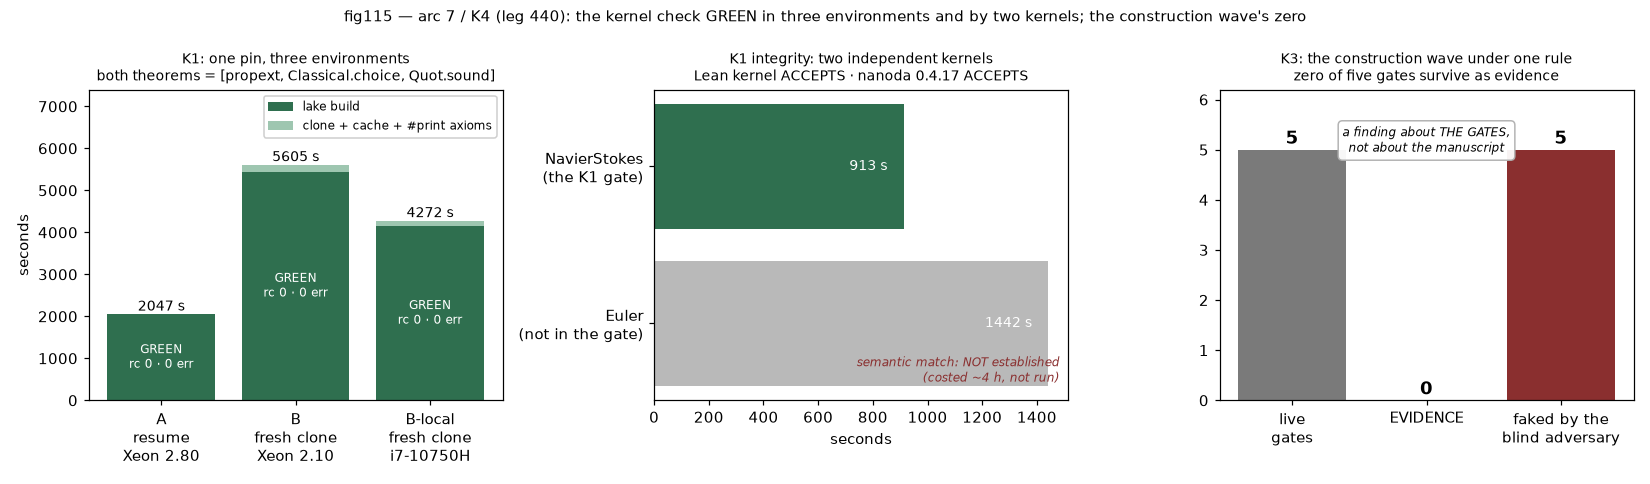
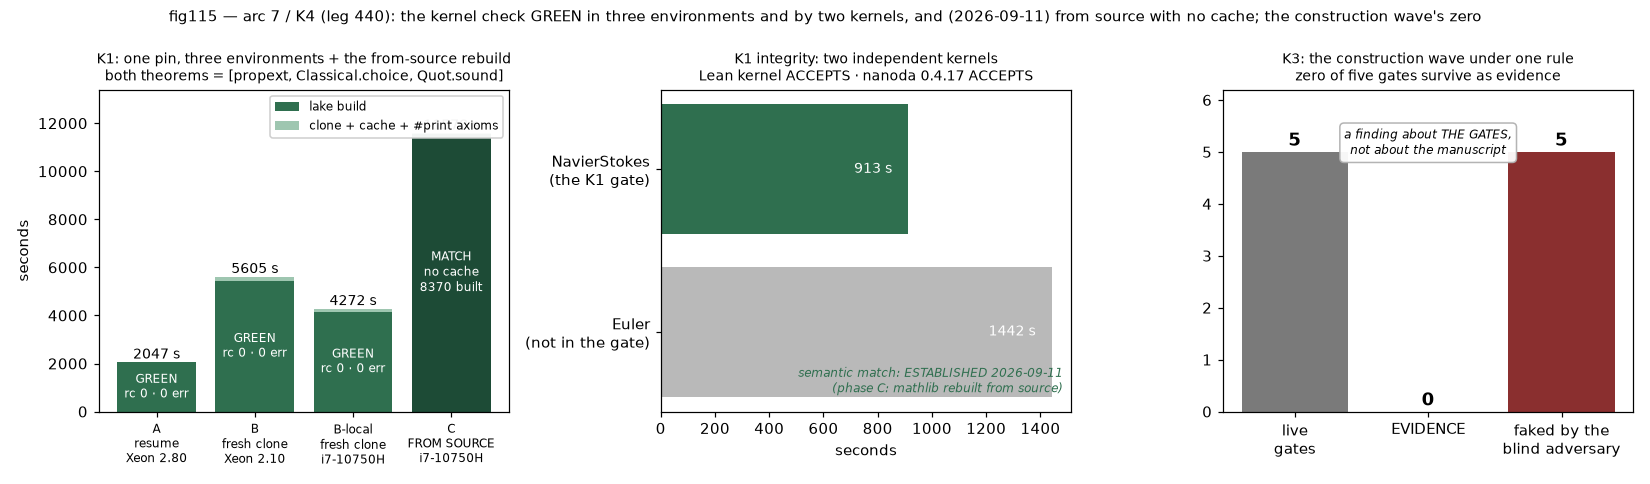
DOCS: remove the four places still saying the from-source rebuild had not been run
The phase C merge (b68480a) updated six documents and missed four reader-facing
statements, two of which contradicted the new text on the same page:

1. TECHNICAL_CONFIRMATION.md §7 listed the SAME limit twice, ESTABLISHED above
   and "OPEN, costed, not run" below. The old row is struck, wording kept visible.
2. INDEX.md's arc-7 row said "no longer rests on the published olean cache" and
   "SEMANTIC MATCH open (costed ~4 h, not run)" in one cell. Now CLOSED.
3. fig115 -- the published PNG -- was captioned "semantic match: NOT established
   (costed ~4 h, not run)" in red. A figure is quotable away from the page that
   corrects it, and this one had already been merged to main saying the opposite
   of §3b. Caption fixed, phase C drawn as a fourth bar, PNG redrawn.
4. BLOG_CONFIRMATION.md and CONFIRMATION_FOR_OUTSIDERS.md were not touched by the
   merge at all and still told the reader the recompile was costed and not run.
   The outsiders' note moves the library question into "what WAS verified" and
   replaces it in the negative list with the honest one: the Lean compiler was
   installed, not built, and that is where the chain of trust now ends.

Also: README's two arc-7 banners now carry the rebuild; confirmation_evidence.py
gains a phase C section (§4b, 14 checks) so the rebuild's numbers are re-derived
from the banked artefacts like every other number, and drift in them fails the
gate -- the caption was missed precisely because no test asserted it.
[…]

diff --git a/writeup/7_confirmation/confirmation_evidence.py b/writeup/7_confirmation/confirmation_evidence.py
@@ -32,6 +32,7 @@ print("== 1. K1: the same pin in all three environments")
 A = J(D / "k1" / "phaseA" / "phaseA.json")
 B = J(D / "k1" / "phaseB" / "phaseB.json")
 L = J(D / "k1" / "phaseB_local" / "phaseB.json")
+C = J(D / "k1" / "phaseC" / "phaseC.json")   # 2026-09-11: the from-source rebuild
 for nm, a in [("A", A), ("B", B), ("B-local", L)]:
     check(a["tree_head"] == PIN and a["mathlib_rev"] == MATHLIB and a["comparator_rev"] == COMPARATOR
           and a["toolchain"] == "leanprover/lean4:v4.34.0-rc2" and a["olean_count_project"] == 2486,
@@ -79,6 +80,28 @@ check("does not establish" in I["provenance"].get("what_this_does_not_establish"
       "were in fact produced by compiling" in I["provenance"]["what_this_does_not_establish"],
       "provenance carries its own negative clause")
 check("were in fact produced by compiling" in T, "the note quotes the provenance limit verbatim")
+
+print("== 4b. K1 phase C (2026-09-11): mathlib rebuilt FROM SOURCE, cache never invoked")
+check(C["tree_head"] == PIN and C["mathlib_rev"] == MATHLIB and C["comparator_rev"] == COMPARATOR
+      and C["olean_count_project"] == 2486, "phase C: same pin, same mathlib, same comparator, 2486 oleans")
+check(C["mathlib_built_lines"] == 8370 and C["mathlib_replayed_lines"] == 0,
+      "the prereg void check: 8370 `Built Mathlib.` lines, 0 replayed -- no cache was used",
+      f'{C["mathlib_built_lines"]} built / {C["mathlib_replayed_lines"]} replayed')
+check("NEVER RUN" in C["cache_get_rc"] and "0 occurrences" in C["cache_get_rc"],
+      "`lake exe cache get` never invoked; `cache` absent from the build log")
+rC = C["result"]
+check(C["build_rc"] == 0 and C["build_error_lines"] == 0 and rC["navier_stokes_breakdown_R3"] == STD3
+      and rC["navier_stokes_breakdown_periodic"] == STD3 and rC["sorryAx_reachable"] == "NO"
+      and C["reading"].startswith("MATCH"),
+      "phase C: rc 0, 0 errors, the standard three, sorryAx NO, reading MATCH")
+check("sorryAx" not in C["axioms_verbatim"], "phase C: sorryAx absent from the verbatim axioms log")
+check("0883b714" in C["comparison_with_phaseB"]["axioms_identical"],
+      "axioms byte-identical across all three runs, by md5 -- not by eye")
+check(C["total_s"] == 11578 and C["build_s"] == 11571, "phase C total 11578 s (build 11571)", str(C["total_s"]))
+check(round(C["total_s"] / L["total_s"], 2) == 2.71, "the cost of dropping the cache: 2.71x phase B",
+      f'{C["total_s"]}/{L["total_s"]} = {C["total_s"]/L["total_s"]:.2f}')
+for tok in ["8370", "11578", "2.71", "28.5 GB", "was never invoked, not once"]:
+    check(tok in T, f"the note quotes {tok!r} for phase C")
 
 print("== 5. K2: the five blind workers, and the label that moved")
 K2 = D / "k2" / "r2"
@@ -130,26 +153,29 @@ check("priority dispute" in T and "takes no position" in T, "the no-priority sen
 
 print("== 9. fig115, drawn from the banked artefacts alone")
 fig, ax = plt.subplots(1, 3, figsize=(15, 4.4))
-names = ["A\nresume\nXeon 2.80", "B\nfresh clone\nXeon 2.10", "B-local\nfresh clone\ni7-10750H"]
-build = [A["build_s"], B["build_s"], L["build_s"]]
-other = [0, B["total_s"] - B["build_s"], L["total_s"] - L["build_s"]]
-ax[0].bar(names, build, color="#2f6f4f", label="lake build")
+names = ["A\nresume\nXeon 2.80", "B\nfresh clone\nXeon 2.10", "B-local\nfresh clone\ni7-10750H",
+         "C\nFROM SOURCE\ni7-10750H"]
+build = [A["build_s"], B["build_s"], L["build_s"], C["build_s"]]
+other = [0, B["total_s"] - B["build_s"], L["total_s"] - L["build_s"], C["total_s"] - C["build_s"]]
+tags = ["GREEN\nrc 0 · 0 err", "GREEN\nrc 0 · 0 err", "GREEN\nrc 0 · 0 err", "MATCH\nno cache\n8370 built"]
+ax[0].bar(names, build, color=["#2f6f4f", "#2f6f4f", "#2f6f4f", "#1d4b36"], label="lake build")
 ax[0].bar(names, other, bottom=build, color="#9ec6b0", label="clone + cache + #print axioms")
 for i, (b, o) in enumerate(zip(build, other)):
-    ax[0].text(i, b + o + 90, f"{b+o} s", ha="center", fontsize=9)
-    ax[0].text(i, b / 2, "GREEN\nrc 0 · 0 err", ha="center", va="center", fontsize=8, color="white")
-ax[0].set_ylabel("seconds"); ax[0].set_ylim(0, 7400)
+    ax[0].text(i, b + o + 160, f"{b+o} s", ha="center", fontsize=9)
+    ax[0].text(i, b / 2, tags[i], ha="center", va="center", fontsize=8, color="white")
+ax[0].set_ylabel("seconds"); ax[0].set_ylim(0, 13400)
+ax[0].tick_params(axis="x", labelsize=8)   # four bars now: the labels crowd at the default size
 # legend upper-LEFT would sit on top of phase B's total label; the tall bar is centre-left
 ax[0].legend(fontsize=8, loc="upper right", framealpha=0.95)
-ax[0].set_title("K1: one pin, three environments\nboth theorems = [propext, Classical.choice, Quot.sound]", fontsize=9)
+ax[0].set_title("K1: one pin, three environments + the from-source rebuild\nboth theorems = [propext, Classical.choice, Quot.sound]", fontsize=9)
 
 ax[1].barh(["Euler\n(not in the gate)", "NavierStokes\n(the K1 gate)"], [eu["seconds"], ns["seconds"]],
            color=["#b9b9b9", "#2f6f4f"])
 for i, s in enumerate([eu["seconds"], ns["seconds"]]):
     ax[1].text(s - 60, i, f"{s} s", ha="right", va="center", color="white", fontsize=9)
 ax[1].set_xlabel("seconds"); ax[1].set_title("K1 integrity: two independent kernels\nLean kernel ACCEPTS · nanoda 0.4.17 ACCEPTS", fontsize=9)
-ax[1].text(0.98, 0.06, "semantic match: NOT established\n(costed ~4 h, not run)", transform=ax[1].transAxes,
-           ha="right", fontsize=8, style="italic", color="#8a2f2f")
+ax[1].text(0.98, 0.06, "semantic match: ESTABLISHED 2026-09-11\n(phase C: mathlib rebuilt from source)", transform=ax[1].transAxes,
+           ha="right", fontsize=8, style="italic", color="#2f6f4f")
 
 lab = ["live\ngates", "EVIDENCE", "faked by the\nblind adversary"]
 val = [c["live_gates"], c["EVIDENCE"], c["gates_the_blind_adversary_faked"]]
@@ -162,8 +188,8 @@ ax[2].text(0.5, 0.80, "a finding about THE GATES,\nnot about the manuscript", tr
            ha="center", fontsize=8, style="italic",
            bbox=dict(boxstyle="round,pad=0.35", fc="white", ec="#b0b0b0", alpha=0.95))
 
-fig.suptitle("fig115 — arc 7 / K4 (leg 440): the kernel check GREEN in three environments and by two kernels; "
-             "the construction wave's zero", fontsize=10)
+fig.suptitle("fig115 — arc 7 / K4 (leg 440): the kernel check GREEN in three environments and by two kernels, "
+             "and (2026-09-11) from source with no cache; the construction wave's zero", fontsize=10)
 fig.tight_layout(); FIGS.mkdir(exist_ok=True)
 out = FIGS / "fig115_arc7_confirmation.png"
 fig.savefig(out, dpi=110); plt.close(fig)

diff --git a/writeup/CORRECTIONS.md b/writeup/CORRECTIONS.md
@@ -5567,3 +5567,45 @@ semantic-match bullet, new §3b, §6 bullet, §7 table row), `STATE.md` (`K1` an
 `reports/ORCH_STATE.md` (new phase C block; the targeted-check open item closed), `writeup/INDEX.md`
 (arc 7 row), and `experiments/journal/leg_437.md` (new §6, appended beside §4–§5).
 
+
+### §81c — the phase C documentation pass left FOUR stale statements standing, including one inside the published figure. Found on a sweep the day of the merge, 2026-09-11.
+
+§81b recorded what the phase C merge (`b68480a`) edited. It did not edit enough. A sweep of the
+reader-facing surfaces — asked for by the user, *"make sure they don't see redundant chat about having
+not rebuilt from source"* — found four places still telling a visitor the rebuild had not happened, two
+of them **contradicting the new text on the same page**:
+
+1. **`TECHNICAL_CONFIRMATION.md` §7 carried the same limit TWICE, with opposite statuses.** The merge
+   added `| K1 olean semantic match | ESTABLISHED 2026-09-11 |` above the pre-existing
+   `| K1 semantic match | OPEN, costed, not run |` and did not strike the old row. A reader of the
+   verification table saw both. The old row is now struck with its former wording kept visible.
+2. **`INDEX.md`'s arc-7 row said both things in one cell.** The merge prepended *"since 2026-09-11 this
+   no longer rests on the published olean cache"* and left *"SEMANTIC MATCH open (costed ~4 h, not run)"*
+   later in the same sentence. Corrected to `CLOSED 2026-09-11`.
+3. **fig115 — the published figure — was captioned `semantic match: NOT established (costed ~4 h, not
+   run)`, in red.** This is the worst of the four: a figure is quotable on its own, away from the page
+   that corrects it, and this one had been merged to `main` already saying the opposite of §3b. The
+   generator is fixed, the caption now reads ESTABLISHED, phase C is drawn as a fourth bar, and the PNG
+   is redrawn from the banked artefacts.
+4. **`BLOG_CONFIRMATION.md` and `CONFIRMATION_FOR_OUTSIDERS.md` were not touched by the merge at all.**
+   Both still told the reader the recompile was costed and deliberately not run. The blog's
+   three-claims passage now records that the third claim closed. The outsiders' note moved the library
+   question out of *"what was not verified"* and into *"what was actually verified"* as point 4 — and
+   replaced it in the negative list with the claim that is now the honest one: **the Lean compiler
+   itself was installed, not built**, and that is where the chain of trust ends.
+
+**Why it happened.** The merge pass worked from a list of documents to update. Nothing checked the
+documents against each other afterwards, so an added sentence and an unremoved sentence could sit in the
+same table. The figure was missed because its text lives in `confirmation_evidence.py`, not in any `.md`,
+and the evidence script passed — it re-derives numbers from artefacts and never asserted anything about
+that caption. `confirmation_evidence.py` now carries a phase C section (§4b, 10 checks) so the rebuild's
+numbers are re-derived like every other number, and drift in them fails the gate.
+
+**Not edited, deliberately.** `phaseA.json`, `phaseB.json`, `phaseB_local.json` still carry *"that
+mathlib's cached oleans match their sources"* — true of those runs, each a cache replay (§3f: a banked
+datum is never edited, only corrected beside). `rebuild_cost_estimate.md` still carries its ≈4 h estimate,
+its targeted 399-module alternative and its disk blocker; it gains a **note beside it**
+(`phaseB_integrity/NOTE_superseded_by_phaseC.md`) recording that the rebuild ran, that the targeted
+alternative was never needed, and that its own disk figure was low. Arc 6's `6_reproduction/` documents
+still say *"one run, one container, unreplayed"*, which was true when written and which the README
+already marks as superseded by measurement; prior arcs are left standing and unrewritten.

diff --git a/writeup/INDEX.md b/writeup/INDEX.md
@@ -529,5 +529,5 @@ journal; nothing here is a summary written after the fact.*
 
 | Route | Gate / headline | R | D | B/T | E | F | Docs |
 |---|---|---|---|---|---|---|---|
-| Confirmation, §3g CONDUCTOR ×5 (legs 436–440) | **The kernel check is GREEN and `VERIFIED`: on one pin (`8937a8f4`), in THREE environments and by TWO independent kernels (Lean and nanoda 0.4.17), both exported theorems are accepted with `[propext, Classical.choice, Quot.sound]` and `sorryAx` unreachable.** **Since 2026-09-11 this no longer rests on the published olean cache: a FOURTH run (`K1` phase C) rebuilt mathlib from source with `lake exe cache get` never invoked — 8370 `Built Mathlib.`, 0 `Replayed` — and returned the same axioms byte for byte.** It confirms the Lean project proves what its own statements say — and those statements are Fefferman (C)/(D), **strictly weaker than Theorem 1.1**. Olean INTEGRITY established, PROVENANCE to labelling only, SEMANTIC MATCH open (costed ~4 h, not run). `K3`'s construction wave: the blind adversary faked **all five** live gates — **zero surviving evidence in either direction**, a finding about the GATES, not the manuscript | Y | Y | Y | Y | fig115 | [T](7_confirmation/TECHNICAL_CONFIRMATION.md) · [B](7_confirmation/BLOG_CONFIRMATION.md) · [outsiders](7_confirmation/CONFIRMATION_FOR_OUTSIDERS.md) · [evidence](7_confirmation/confirmation_evidence.py) · [note: five gates, five fakes](notes/PREREGISTERED_GATES_FAKED.md) — `K1` **VERIFIED** by a blind agent; everything Conductor-written **UNVERIFIED**. Ceiling **TIER 2**, no `L1→L4` link moved, **Clay ~0.05%**. **No position on priority** |
+| Confirmation, §3g CONDUCTOR ×5 (legs 436–440) | **The kernel check is GREEN and `VERIFIED`: on one pin (`8937a8f4`), in THREE environments and by TWO independent kernels (Lean and nanoda 0.4.17), both exported theorems are accepted with `[propext, Classical.choice, Quot.sound]` and `sorryAx` unreachable.** **Since 2026-09-11 this no longer rests on the published olean cache: a FOURTH run (`K1` phase C) rebuilt mathlib from source with `lake exe cache get` never invoked — 8370 `Built Mathlib.`, 0 `Replayed` — and returned the same axioms byte for byte.** It confirms the Lean project proves what its own statements say — and those statements are Fefferman (C)/(D), **strictly weaker than Theorem 1.1**. Olean INTEGRITY established, PROVENANCE to labelling only, SEMANTIC MATCH **CLOSED 2026-09-11** by that rebuild. `K3`'s construction wave: the blind adversary faked **all five** live gates — **zero surviving evidence in either direction**, a finding about the GATES, not the manuscript | Y | Y | Y | Y | fig115 | [T](7_confirmation/TECHNICAL_CONFIRMATION.md) · [B](7_confirmation/BLOG_CONFIRMATION.md) · [outsiders](7_confirmation/CONFIRMATION_FOR_OUTSIDERS.md) · [evidence](7_confirmation/confirmation_evidence.py) · [note: five gates, five fakes](notes/PREREGISTERED_GATES_FAKED.md) — `K1` **VERIFIED** by a blind agent; everything Conductor-written **UNVERIFIED**. Ceiling **TIER 2**, no `L1→L4` link moved, **Clay ~0.05%**. **No position on priority** |
 

diff --git a/README.md b/README.md
@@ -21,7 +21,10 @@ claim in the repository is tiered, gated, and rebuildable from committed data.
 > (Lean's own and **nanoda**, a separate Rust implementation), both exported theorems are accepted
 > depending on no axiom beyond `propext`, `Classical.choice` and `Quot.sound`, with `sorryAx`
 > unreachable. A **blind** agent reproduced it from the raw logs — which is the only reason it is
-> labelled `VERIFIED`, the one such label in this repository.
+> labelled `VERIFIED`, the one such label in this repository. **And since 2026-09-11 it no longer rests
+> on the published `mathlib` binary cache: a fourth run rebuilt `mathlib` from its own source —
+> `lake exe cache get` never invoked, 8370 `Built Mathlib.` lines, zero replayed — and returned the same
+> axioms byte for byte.**
 >
 > **That is the whole of what it confirms.** It confirms the Lean project proves what its own
 > statements say, and those statements are Fefferman's **(C)/(D)** — *strictly weaker* than the
@@ -100,7 +103,12 @@ claim in the repository is tiered, gated, and rebuildable from committed data.
 > `sorryAx` unreachable. A **blind** agent, given only the raw build and axiom logs, reproduced it and
 > returned `VERIFIED-SUPPORTED`; that, and nothing else, is why the label moved. Separately, `lake exe
 > comparator` replayed the whole environment through **nanoda 0.4.17, an independent Rust implementation
-> of the Lean kernel** — both kernels accept. **That is the whole of what arc 7 confirms.** It confirms
+> of the Lean kernel** — both kernels accept. **A FOURTH run on 2026-09-11 (`K1` phase C) removed the
+> last download from the trust path: `mathlib` was compiled from its own source with `lake exe cache get`
+> never invoked (8370 `Built Mathlib.`, 0 `Replayed`), at 2.71× the wall clock and a 28.5 GB tree, and
+> both theorems returned the same three axioms byte for byte — the cached oleans were not load-bearing.**
+> Same lineage and same laptop, so it strengthens trust, not independence; the trust path now ends at the
+> Lean compiler binary, which was installed rather than built. **That is the whole of what arc 7 confirms.** It confirms
 > the Lean project proves what its own statements say; those statements are Fefferman's (C)/(D),
 > **strictly weaker than Theorem 1.1**. It is **not** a confirmation that the 166-page proof is correct.
 > And this repository's own attempt to check the construction numerically (`K3`) produced **ZERO**

diff --git a/writeup/7_confirmation/CONFIRMATION_FOR_OUTSIDERS.md b/writeup/7_confirmation/CONFIRMATION_FOR_OUTSIDERS.md
@@ -31,6 +31,11 @@ Think of it as three separate questions.
 3. **Is the checker itself trustworthy?** We replayed the whole thing through a **second** checker,
    written independently in a different programming language by different people. It also accepted. Two
    independent programs agreeing is much stronger than one program run twice.
+4. **Is the library underneath trustworthy?** Formal proofs are built on a large shared library, which is
+   normally downloaded as pre-compiled files rather than rebuilt. That download was the weakest link in
+   everything above. On 2026-09-11 we removed it: we rebuilt that entire library from its published
+   source text — three and a quarter hours of compilation, nothing downloaded — and ran the check again.
+   **Identical result, to the byte.** So the pre-compiled files were not doing any hidden work.
 
 ## What was not verified, stated plainly
 
@@ -39,10 +44,10 @@ Think of it as three separate questions.
   A green check on the weaker statement is not a green check on the stronger one.
 - **That the Lean proof follows the paper's reasoning.** It proves its own statement. Whether it does so
   by the argument the manuscript describes is a separate question we did not answer.
-- **The mathematics library underneath.** Formal proofs are built on a large shared library. We confirmed
-  the copy we used is internally valid and correctly labelled, but not that its pre-compiled files
-  *mean* what the library's published source text says. Closing that needs a full recompile. We measured
-  what it would cost — roughly four hours — and did not run it.
+- **The compiler itself.** Rebuilding the library from source (point 4 above) removed the pre-compiled
+  files from the chain of trust, but it did not remove the chain. Something still has to be trusted: the
+  Lean compiler we ran, which we installed as a published binary rather than building ourselves. That is
+  where the chain now ends, and we are saying so rather than implying it ends nowhere.
 - **Anything about who did what first.** There is a dispute about priority around this manuscript.
   **This project takes no position on it whatsoever.** We have no evidence bearing on it, so we say
   nothing about it, in either direction.

diff --git a/writeup/7_confirmation/BLOG_CONFIRMATION.md b/writeup/7_confirmation/BLOG_CONFIRMATION.md
@@ -53,9 +53,17 @@ mathlib libraries are **kernel-valid** and use no forbidden axiom.
 It did **not** close the neighbouring question. "Are these cached binaries *labelled* as built from these
 sources" (yes, content-addressed, 8747 cache files, every key matching), "are they kernel-valid" (yes,
 twice over) and "do they **mean** what mathlib's source text says" are three different claims. The third
-still needs a recompile. We measured what it would cost — about four hours for the full thing, or eight
-to ten minutes for a targeted version covering just the two theorem statements — and then **did not run
-it**, because scheduling it is the operator's call, not ours.
+needed a recompile, and when we first published this page we had costed it — about four hours — and
+**not run it**, because scheduling it was the operator's call.
+
+**They scheduled it. It ran on 2026-09-11, and the third claim is now closed too.** mathlib was compiled
+from its own published source on the same laptop, with `lake exe cache get` **never invoked** — 8370
+`Built Mathlib.` lines, zero replayed — and both theorems returned the same three axioms, byte for byte:
+the `depends on axioms` lines from the rebuild and from both cached runs hash to the same md5. So the
+cached binaries were not load-bearing. It cost 11578 s against 4272 s cached — **2.71×** — and a 28.5 GB
+build tree. What it does **not** do is make any of this independent: same lineage, same laptop. And the
+end of the trust path simply moved — it now stops at the Lean compiler binary, which we installed rather
+than built.
 
 ## The part that went badly, and why we are leading with it anyway
 

diff --git a/writeup/data/arc7/k1/phaseB_integrity/NOTE_superseded_by_phaseC.md b/writeup/data/arc7/k1/phaseB_integrity/NOTE_superseded_by_phaseC.md
@@ -1,0 +1,24 @@
+# Note beside `rebuild_cost_estimate.md` — its blocker is gone and its estimate was low
+
+**2026-09-11.** `rebuild_cost_estimate.md` is a banked artefact of 2026-09-10 and is **not edited**
+(§3f: a banked datum is never edited, only corrected beside). This note is the correction beside it.
+
+That file costed a from-source rebuild of mathlib at **≈4 h wall on 4 cores**, offered a cheaper
+**targeted 399-module** alternative, and recorded a **blocker**: `/root` had 11 GB free against a
+6.6 GB build output, so a second tree did not fit.
+
+All three of those are now historical:
+
+| its statement, 2026-09-10 | what happened |
+|---|---|
+| full rebuild ≈4 h, not run | **RUN on 2026-09-11** — `K1` phase C, 11578 s (3.2 h) on 12 cores |
+| targeted 399-module alternative | **never needed, never run** — the full rebuild subsumes it |
+| blocked: a second tree does not fit | **unblocked** by the operator freeing space |
+| disk: 6.6 GB of build output | **an underestimate** — the real tree measured **28.5 GB**; provision ~30 GB |
+
+The rebuild's result: `lake exe cache get` never invoked, **8370 `Built Mathlib.` lines, 0 replayed**,
+and both theorems returned `[propext, Classical.choice, Quot.sound]` byte-identically to the cached runs.
+Reading **MATCH** — the cached oleans were not load-bearing.
+
+Full record: `writeup/data/arc7/k1/phaseC/phaseC.json`, `writeup/CORRECTIONS.md` §81 and §81a,
+`writeup/7_confirmation/TECHNICAL_CONFIRMATION.md` §3b.

diff --git a/writeup/7_confirmation/TECHNICAL_CONFIRMATION.md b/writeup/7_confirmation/TECHNICAL_CONFIRMATION.md
@@ -228,7 +228,7 @@ project: [`writeup/notes/PREREGISTERED_GATES_FAKED.md`](../notes/PREREGISTERED_G
 | `K1` kernel check | **GREEN, `VERIFIED`** — by `K2` slot 5, blind, on prereg §4(5)'s condition and nothing else |
 | `K1` olean integrity | **ESTABLISHED**, two independent kernels; same lineage, so `UNVERIFIED` by a second agent |
 | `K1` olean semantic match | **ESTABLISHED** 2026-09-11 (§3b) — mathlib rebuilt from source, cache never consulted, axioms byte-identical; same lineage, so `UNVERIFIED` by a second agent |
-| `K1` semantic match | **OPEN**, costed, not run |
+| ~~`K1` semantic match~~ | **STRUCK 2026-09-11 — duplicate of the row above.** It read *"OPEN, costed, not run"*; that was the same limit, and phase C closed it (§3b). Left struck, not deleted: it was the published status until that day |
 | `K2` gate answers | five blind workers agreeing across two runs; the Conductor's integration is `UNVERIFIED` |
 | `K3` gate answers | **`EVIDENCE` 0**; every gate `UNVERIFIED` |
 | `K4` this document | `UNVERIFIED` — Conductor-written |

diff --git a/reports/ORCH_STATE.md b/reports/ORCH_STATE.md
@@ -54,7 +54,7 @@ Phase A (remote container 1, resume): GREEN. Phase B (remote fresh container 2):
 (`writeup/data/arc7/k1/phaseB/`). Phase B on the operator's laptop (12 cores): GREEN, `total_s` 4272
 (`writeup/data/arc7/k1/phaseB_local/`, merged d526329). Same pin, mathlib `85e3a25e`, Comparator `19e111e2`, both
 theorems `[propext, Classical.choice, Quot.sound]`, `sorryAx` NO, everywhere. Three limits banked, none softened:
-mathlib oleans REPLAYED from cache, not rebuilt; statements are Fefferman (C)/(D), not Theorem 1.1; a second
+mathlib oleans REPLAYED from cache (CLOSED below); statements are Fefferman (C)/(D), not Theorem 1.1; a second
 machine is not a second agent — **`VERIFIED` only when K2 slot 5, blind, reproduces it from the banked artefacts.**
 
 
